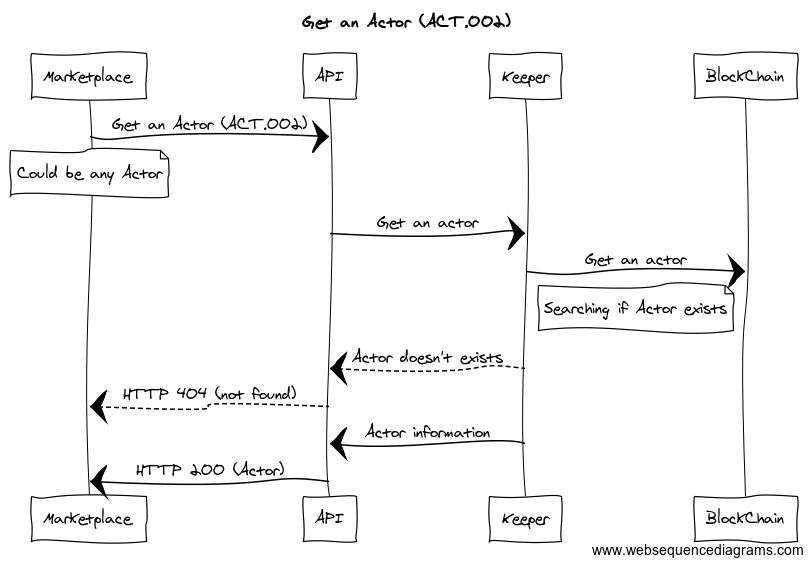
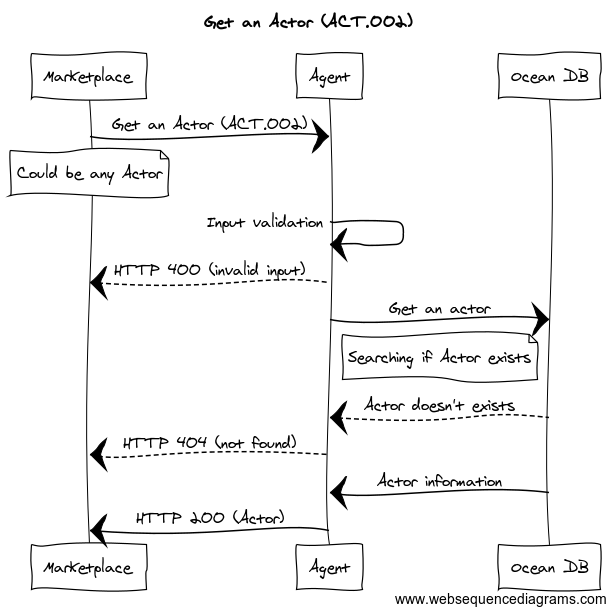
WIP: Adding info about reading actors information

Changed region(s): [[0.0, 0.0602, 0.9886, 0.9929], [0.3089, 0.0, 0.6797, 0.0903]]

diff --git a/13/README.md b/13/README.md
@@ -100,7 +100,7 @@ In the following sections you can find the end to end implementation details of 
 ![Registering a new Actor](images/ACT.001.png "ACT.001")
 
 In the above diagram the Agent and the Account Manager capabilities are implemented in the AGENT scope.
-
+No information is going through the Decentralized VM.
 The registering of a new Actor involves the following implementations:
 
 #### Ocean Agent API
@@ -182,6 +182,7 @@ Actor state will be set as **CREATED** by the system.
 
 After creating the Actor in the Database, it will return a HTTP 202 Accepted message. It means the request has been accepted for processing, but the processing has not been completed.
 
+
 #### Output
 Using the information stored/provided by **Ocean DB**, the **AGENT** SHOULD compose the output payload to return. It should include the following information:
 
@@ -192,6 +193,69 @@ Using the information stored/provided by **Ocean DB**, the **AGENT** SHOULD comp
 |state      |enum  |Internal state information. One of the following("CREATED", "WHITELISTED", "BANNED", "DISABLED")|
 |creationDatetime |Datetime |Creation datetime set by the database|
 |attributes |array |Array of key, value attributes|
+
+
+### Retrieve information of an existing actor
+
+![Retrieve info of an Actor](images/ACT.002.png "ACT.002")
+
+
+The retrieval of the Actor information relates with the AGENT and Ocean DB. No information is read from the Decentralized VM. This functionality involves the following implementations:
+
+#### Ocean Agent API
+
+It is necessary to expose a RESTful HTTP interface using the following details:
+
+```
+Path:  /api/v1/keeper/actors/actor/{actorId}
+HTTP Verb: GET
+Caller: Any
+Input: actorId
+Output: Actor Schema
+HTTP Output Status Codes: 
+    HTTP 200 - OK
+    HTTP 400 - Invalid params
+    HTTP 404 - Not Found
+```
+
+
+##### Input Parameters
+
+| Parameter | Type | Description |
+|:----------|:-----|:------------|
+|actorId    |string|Account address to retrieve|
+
+Example: 
+
+```http
+GET http://localhost:8080/api/v1/keeper/actors/actor/0x8f0227d45853a50eefd48dd4fec25d5b3fd2295e
+```
+
+```json
+{
+    "actorId": "0x8f0227d45853a50eefd48dd4fec25d5b3fd2295e",
+	"name": "John Doe"
+	"attributes": [{
+		"key": "interests",
+		"value": "Looking Ahead"
+	}]
+}
+```
+
+Before to query the database, it's necessary to check the lenght and format of the actorId. If the lenght and format doesn't fit the standard address definition, the system should return a **HTTP 400** Invalid params message.
+
+Depending of the implementation, there are different alternatives to check if an address is valid (see this [link](https://ethereum.stackexchange.com/questions/1374/how-can-i-check-if-an-ethereum-address-is-valid)).
+
+#### Accounts Management
+
+The Accounts Manager components it's not involved in this method. All the information will be retrieved from **Ocean DB**.
+
+#### Interaction with Ocean DB
+
+Ocean DB stores all the information about the Actors metadata. Using the actorId as key in the Actors collection, the system will retrieve the information about the Actor.
+
+If the Actor metadata has the state attribute `state == DISABLED` the method should return a **HTTP 404** Not Found message.
+
 
 ---
 
@@ -206,29 +270,6 @@ Using the information stored/provided by **Ocean DB**, the **AGENT** SHOULD comp
 ---
 ---
 
-### Get an Actor (ACT.002)
-
-```
-Path:  /api/v1/keeper/actors/actor/{actorId}
-HTTP Verb: GET
-Caller: Any
-Input: actorId
-Output: Actor Schema
-HTTP Output Status Codes: 
-    HTTP 200 - OK
-    HTTP 404 - Not Found
-```
-
-![ACT.002](images/ACT.002.png "ACT.002")
-
-
-Method retrieving information of an Actor from the database.
-If the Actor retrieved has an attribute `state == “DISABLED”` the method should return a HTTP 404 Not Found message
-
-
-This method could be integrated by any actor. 
-The Input of this method is the **actorId** referencing to a unique **Actor**. The Output parameters are defined in 
-the [Actor Schema](https://github.com/oceanprotocol/pk-schemas/blob/develop/src/main/resources/avro/com/oceanprotocol/core/keeper/schemas/Actor.avsc).
 
 
 ### Update an Actor (ACT.003)
@@ -277,6 +318,10 @@ This method only can be integrated by the Actor.
 The Input of this method is the actorId referencing to a unique Actor. The Output parameters are defined in 
 the [Actor Schema](https://github.com/oceanprotocol/pk-schemas/blob/develop/src/main/resources/avro/com/oceanprotocol/core/keeper/schemas/Actor.avsc).
 
+
+## Events
+
+The AGENT will subscribe to the **Ocean DB** Streams valid transaction log, checking 
 
 
 

diff --git a/README.md b/README.md
@@ -56,4 +56,4 @@ Short Name    | Title                                                        | T
 [10/OAA](10)   | On-chain Authentication                       | Standard     | Raw      | TBD
 [11/ACS](11)   | API for Curation/Staking                      | Standard     | Raw      | TBD
 [12/GLO](12)   | Public Glossary                      | Meta     | Draft      | Timothy Ley
-[13/Registry](13)   | Ocean Actor Registry                                     | Standard     | Draft      | Aitor Argomaniz
+[13/REG](13)   | Ocean Actor Registry                                     | Standard     | Draft      | Aitor Argomaniz
